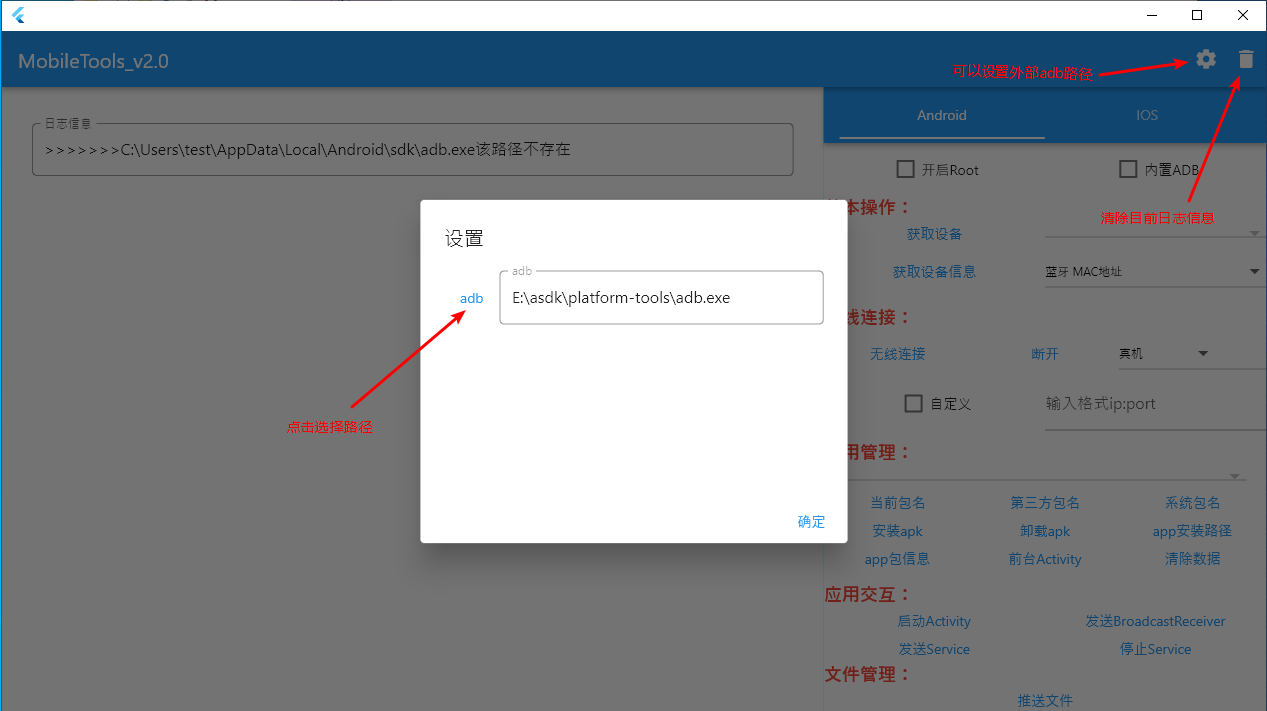
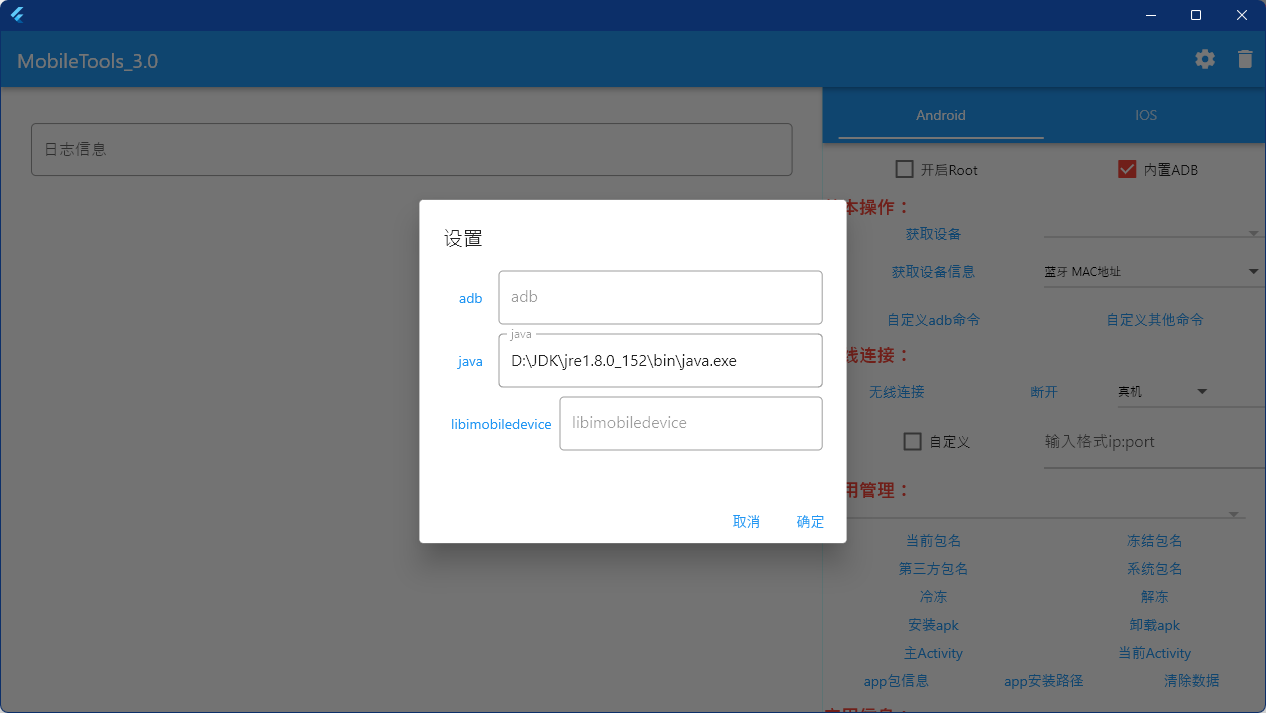
添加windows文档

diff --git a/README.md b/README.md
@@ -1,6 +1,5 @@
 # MobileTool
-最近没事学习了一波flutter，移动端没想到写啥。就写了一个桌面端应用。也是之前项目的一个衍生。之前用c#写过一个使用adb操作Android手机的windows应用，主要就是为了简化操作。现在把这个功能转移到所有桌面应用来，并且修复之前的一些遗留的BUG。
-如果有其他adb功能需要添加的可以提。
+超级方便的adb命令工具，支持所有桌面端，不管你是开发还是测试，都可以试试看。
 
 ## 说明
 + 关于Android
@@ -13,55 +12,106 @@
 
 + 关于配置文件和工具
   
-  用到的配置文件和工具都保存到Documents目录下的MobileTools文件夹下面，包含tools文件夹（相关工具文件）和SETTING文件（配置文件）。里面用到的几个工具太大。保存到了百度云盘，需要的可以放到tools文件夹下面。[链接](https://pan.baidu.com/s/1uQiexdargX4ZW-GkmV_zFA)，提取码：d9e9。
+  - 本地文件路径
+  
+    1. Windows：C:\Users\用户名\Documents\MobileTools
+  
+    2. Linux：/home/用户名/Documents/MobileTools
+  
+    3. Windows：/Users/用户名/Documents/MobileTools
+  
+  - MobileTools的目录结构
+  
+    1. apksigner文件夹（签名文件）
+    2. config文件夹（用于保存一些信息）
+    3. tools文件（包含内置的一些文件）
+    4. VERSION文件（当前软件的版本号）
+  
+  如果需要使用反编译，以及获取当前界面的焦点的工具，几个工具太大。保存到了百度云盘，需要的可以放到tools文件夹下面。[链接](https://pan.baidu.com/s/1uQiexdargX4ZW-GkmV_zFA)，提取码：d9e9。
 ## 功能
+
+### 设置
+
++ adb（选择本机的adb文件，以防止和内部adb冲突）
++ java（部分命令需要java环境，如果你不想配置环境变量，可以选择java文件）
++ libimobiledevice（IOS的环境，感觉用处不是很大）
+
+![](screenshots/settings.png)
+
 ### Android
 + 开启Root
+  如果手机有Root权限，可以打开，在获取信息的时候使用到。如果手机有Magisk，可以安装这个插件[adb_root](https://github.com/evdenis/adb_root)，可以让所有的命令都走root权限。
   
-  如果手机又Root权限，可以打开，在获取信息的时候使用到。如果手机有Magisk，可以安装这个插件[adb_root](https://github.com/evdenis/adb_root)，可以让所有的命令都走root权限。
 + 内置ADB
-  
   如果你的电脑没有adb，打开这个开关会使用内置的adb。如果你电脑本身有adb，点击右上角的配置，配置adb路径，以免内置的adb和你安装的adb冲突。
-  - 外部ADB路径设置
-    ![](screenshots/settings.png)
+  
 + 基本操作
   - 获取设备
-    获取当前所有连接的Android设备，展示在下拉框里面（大部分功能都需要先获取设备）
+    获取当前所有连接的Android设备，展示在下拉框里面（如果当前只有单一设备，也可以不获取）
   - 获取设备信息
     选择，然后点击获取信息，部分信息在高版本的手机上面需要Root权限
+  - 自定义adb命令（3.0新增）
+    本软件没有涉及带的命令，可以添加保存，下次使用
+  - 自定义其他命令（3.0新增）
+    相关其他终端命令，可以添加保存，下次使用
+  
 + 无线连接
   - 无线连接
     选择真机，非自定义的情况下会去获取当前真机的ip，获取成功直接去连接，获取失败，需要自定义去填入ip:port。选择其他模拟器设备，默认内置了所有模拟器的第一台设备的端口。然后点击无线连接就ok了。
   - 断开
     只能断开无线连接的设备和模拟器
+  
 + 应用管理
+
   + 当前包名
     获取当前展示的app包名，展示在上面的下拉框里面。
-  + 第三方包名（新增）
+  + 冻结包名（3.0新增）
+    获取所有冻结的app包名，展示在上面的下拉框里面。
+  + 第三方包名（2.0新增）
     获取当前所有第三方的app包名，展示在上面的下拉框里面。
-  + 系统包名（新增）
+  + 系统包名（2.0新增）
     获取当前所有系统的app包名，展示在上面的下拉框里面。
+  + 冷冻（3.0新增）
+    对当前选择的包名对应的apk进行冷冻
+  + 解冻（3.0新增）
+    先获取所有冻结的包名，然后选择包名，进行解冻
   + 安装apk
     选择本地的apk文件安装到手机上面
   + 卸载apk
     卸载当前获取到包名的apk。
-  + apk路径
-    当前获取到包名的app路径。
-  + app包信息（新增）
+  + 主Activity（3.0新增）
+    获取当前包名的启动Activity类名。
+  + 当前Activity（3.0新增）
+    当前正在展示的Activity类名。
+  + app包信息（2.0新增）
     当前获取到包名的app信息，可以复制部分信息为应用交互做准备。
-  + 前台Activity
-    当前最顶级的Activity名。
-  + 清楚数据
-    清楚当前获取到包名的数据。
-+ 应用交互（新增）
+  + apk安装路径
+    当前获取到包名的app路径。
+  + 清除数据
+    清除当前获取到包名的缓存数据。
+  
++ 应用信息（3.0新增）
+  
+  + 内部包名和外部apk
+    选择内部包名需要先获取包名，然后点击下面的按钮，选择外部apk，点击下面的按钮会弹窗让你选择apk
+  + apk包信息
+    获取app的包信息（包含app包名、app名字、app版本、app启动类）
+  + apk权限
+    获取apk需要的权限信息
+  
++ 应用交互（2.0新增）
+  
+  以下3.0版本都对其进行了本地保存，可以自行添加，以供下次使用。存储在config文件夹下面。
+  
   - 启动Activity
-    弹窗输入要启动的Activity名字，如果没有输入将启动当前获取包名的app。（关于启动类可以通过app包信息获取）
+    弹窗输入要启动的Activity名字，如果没有输入将启动当前获取包名的app。（关于启动类可以通过主Activity包信息获取）
   - 发送BroadcastReceiver
-    弹窗输入要启动的广播，下面也列出了部分系统广播，用于测试很难出现的光比。
+    弹窗输入要启动的广播，下面也列出了部分系统广播，用于测试很难出现的广播。
   - 发送Service
     弹出输入要启动的Service
   - 停止Service
     弹出输入要通知的Service
+  
 + 文件管理
   - 推送文件
     选择文件推送到当前设备，默认推送位置/data/local/tmp。点击自定义路径，可以输入你想推送的路径。
@@ -73,27 +123,61 @@
        只是为了拉取文件。需要先配置搜索的文件路径，然后点击搜索，会搜索该路径下的所有文件。然后再点击拉取文件。也会推送到桌面。
     3. 拉取anr
        直接点击，会直接拉取anr日志到桌面（时间有点长，耐心等待）
+  
 + 模拟操作
   你可以使用大部分模拟命令。
+  
+  + 打开获取焦点工具（3.0新增，需要java环境。需要从云盘获取工具放到tools文件夹）
+  
+    [screenshots/![simtool](C:\Users\lijie\Desktop\simtool.png)]
+  
   + 添加指令文件
-    参考adb_simulate_code.txt文件    
+    
+    支持4类指令。滑动、点击、文本、所有按键（参考[adb_simulate_code.txt](adb_simulate_code.txt)文件）    
+    
+  + 刷新指令文件（3.0新增）
+  
+    修改之后。可以直接刷新指令，直接使用
+  
   + 执行指令  
     用户执行指令的按钮
+    
   + 停止指令 
     只有在开启循环时有效。表示停止执行循环
-+ 实用操作
-  + 截屏（修改）
-    截取当前设备的界面，并且推送到桌面（命名 当前时间.png）
-  + 录屏（修改）
-    录取当前屏幕，需要先设置时间，完成后推送到桌面（命名 当前时间.mp4）
+  
++ 逆向相关（3.0新增，需要java环境。需要从云盘获取工具放到tools文件夹）
+  
+  + Apktool拆包
+    使用apktool进行拆包。详情见[Apktool](https://ibotpeaches.github.io/Apktool/)
+  + ApkTool合包
+    使用apktook进行合包。详情见[Apktool](https://ibotpeaches.github.io/Apktool/)
+  + FakerAndroid
+  
+    使用FakerAndroid进行拆包可以二次开发的gradle项目。详情见[FakerAndroid](https://github.com/Efaker/FakerAndroid)
+  
++ 刷机相关
+  
   + 重启手机
     重新启动手机
   + 重启到fastboot
     重启手机到fastboot模式
   + 重启到recovery
     重启手机到recovery模式
+  
++ 实用操作
+  
+  + 截屏（2.0修改）
+    截取当前设备的界面，并且推送到桌面（命名 当前时间.png）
+    
+  + 录屏（2.0修改）
+    录取当前屏幕，需要先设置时间，完成后推送到桌面（命名 当前时间.mp4）
+    
   + v2签名
-    使用apksigner的签名。windows的签名文件放在apksigner文件夹下面，macos放在/Users/用户名/Library/Caches/apksigner下面，可以进行替换，保证文件名一样。apksigner.json为签名的key以及密码。替换记得修改。
+    使用apksigner的签名。可以进行替换，保证文件名一样。apksigner.json为签名的key以及密码。替换记得修改。
+    
+  + 前面校验
+  
+    校验apk的签名信息
 ### IOS
 
 IOS意义不是很大，简单写了几个命令。要下itunes，还有下面的工具，提供获取设备，获取包名，安装和卸载ipa。直接用爱思吧。
